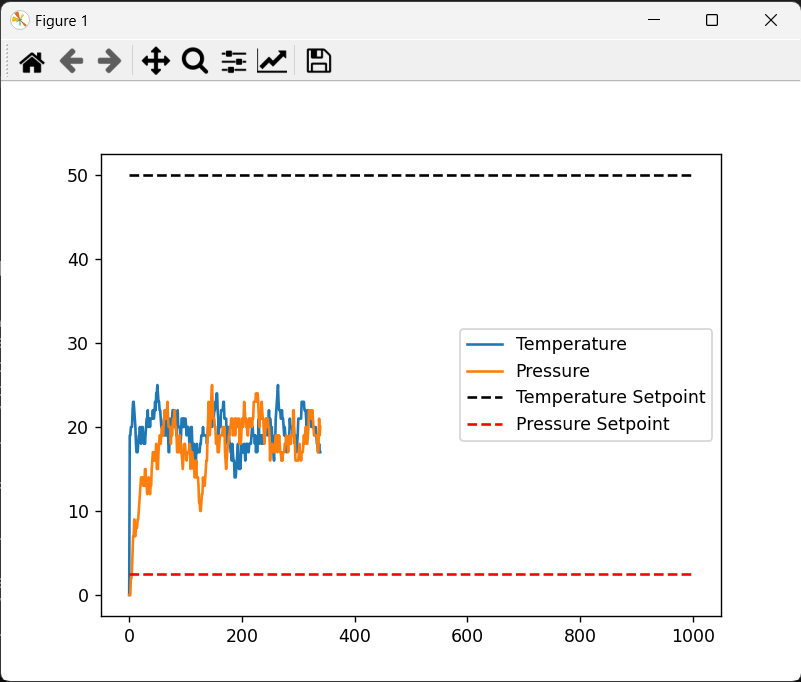
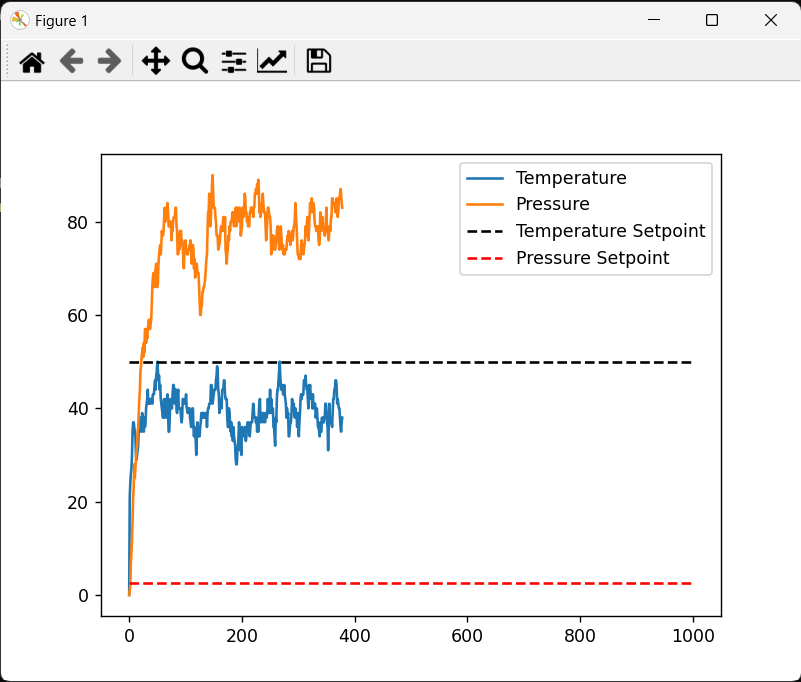
Update model parameters and graph

diff --git a/control_system.cpp b/control_system.cpp
@@ -66,7 +66,7 @@ public:
     void run() 
     {
         std::default_random_engine generator;
-        std::normal_distribution<double> distribution(0.0, 1.0);
+        std::normal_distribution<double> distribution(2.0, 2.0);
 
         double temperature = 20.0;  // Initial temperature in degrees Celsius
         double pressure = 1.0;  // Initial pressure in atmospheres

diff --git a/README.md b/README.md
@@ -54,8 +54,6 @@ Develop a Python interface for the simulation engine.
 
 - Display real-time updates of the sensor readings and machine parameters over time during the simulation.
 
-- Use data visualization libraries to plot key sensor readings and machine parameters over time.
-
 ## Evaluation Criteria
 
 Your solution will be evaluated on the following criteria:
@@ -72,21 +70,23 @@ Your solution will be evaluated on the following criteria:
 
 - Handling of potential errors or exceptional conditions in the system.
 
+- You may choose to work more on the C++ component or the Python component depending on your strengths and the job role you are applying for. However, you are expected to have a basic understanding of both components.
+
 ## Submission Instructions
 
 1. Fork this repository to your own GitHub account and make the forked repository private.
 
 2. Clone the forked repository to your local machine.
 
-3. Commit your changes to a new branch with the name `solution-yourname`, replacing `yourname` with your name.
+3. Commit your changes to a new branch with the name `solution`.
 
-4. Push your branch to the repository using `git push origin solution-yourname`.
+4. Push your branch to the repository.
 
 5. In your private repository, open a pull request from your branch to the `main` branch.
 
 6. In the pull request description, provide a brief explanation of your solution and any decisions you made while developing it.
 
-7. Finally, add the use of this repository as a collaborator to your private repository so that we can review your solution.
+7. Finally, add the user of this repository as a collaborator to your private repository so that we can review your solution.
 
 Please note: Do not open a pull request in the original public repository. Your solution should be submitted in your private repository only.
 
